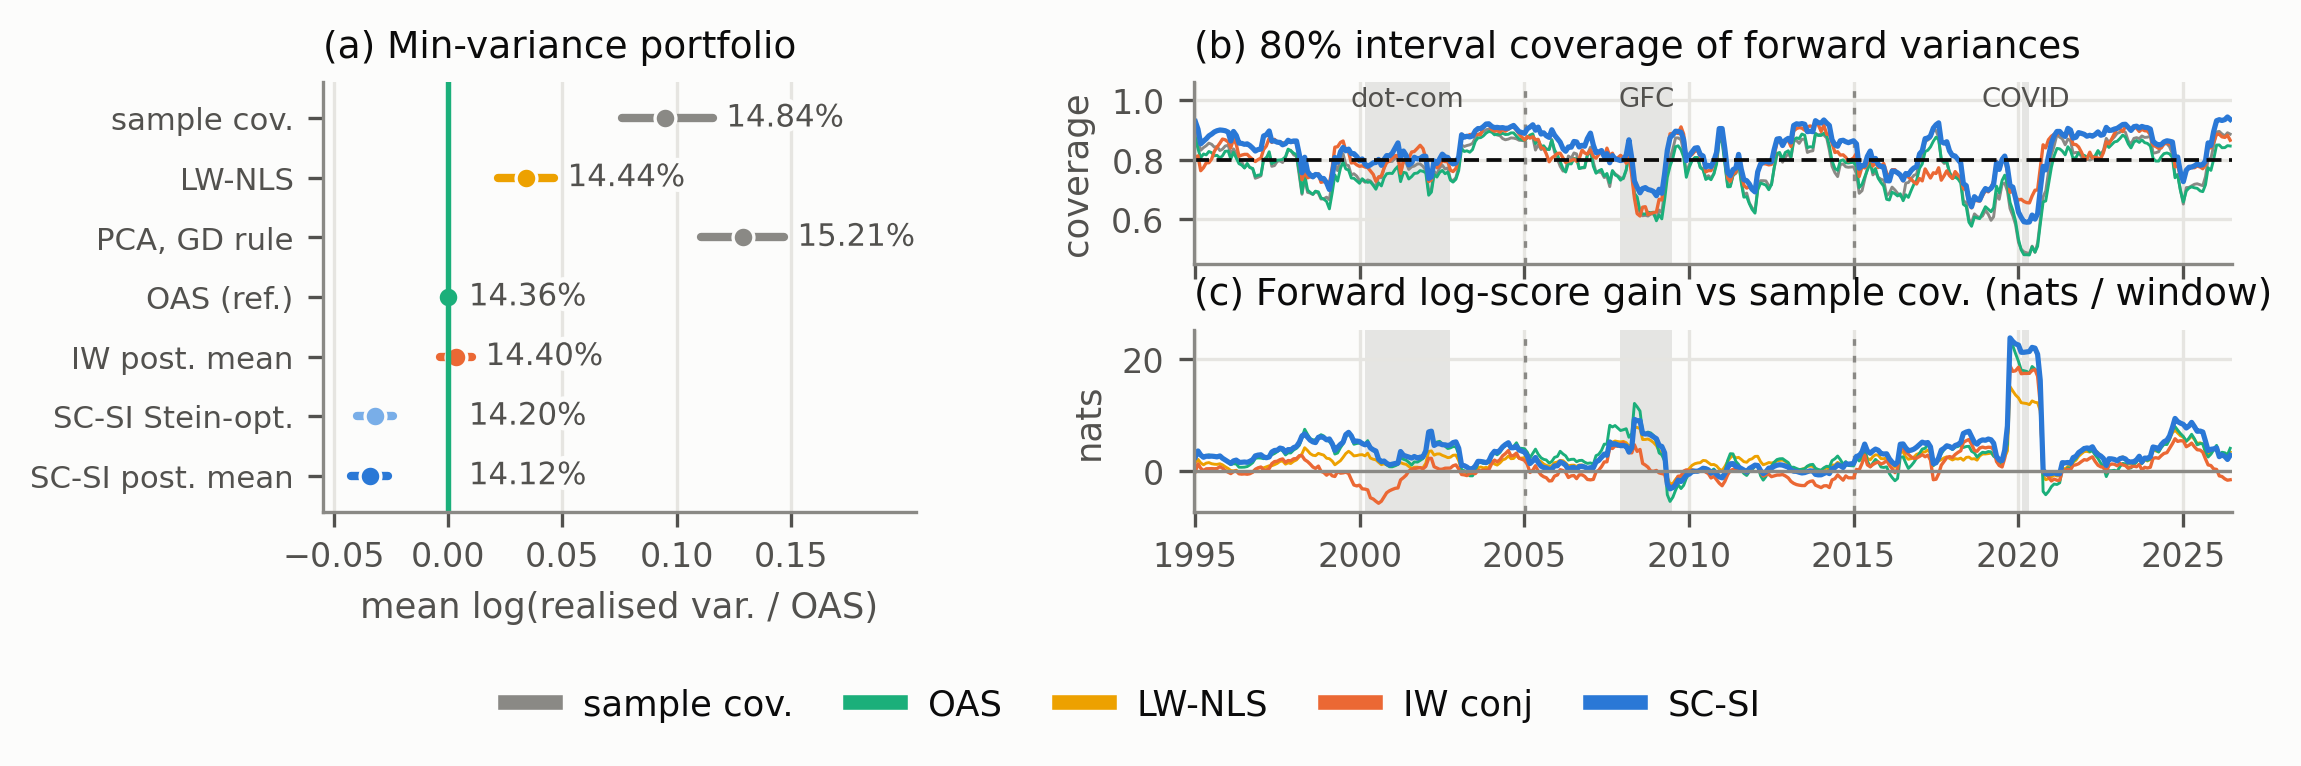
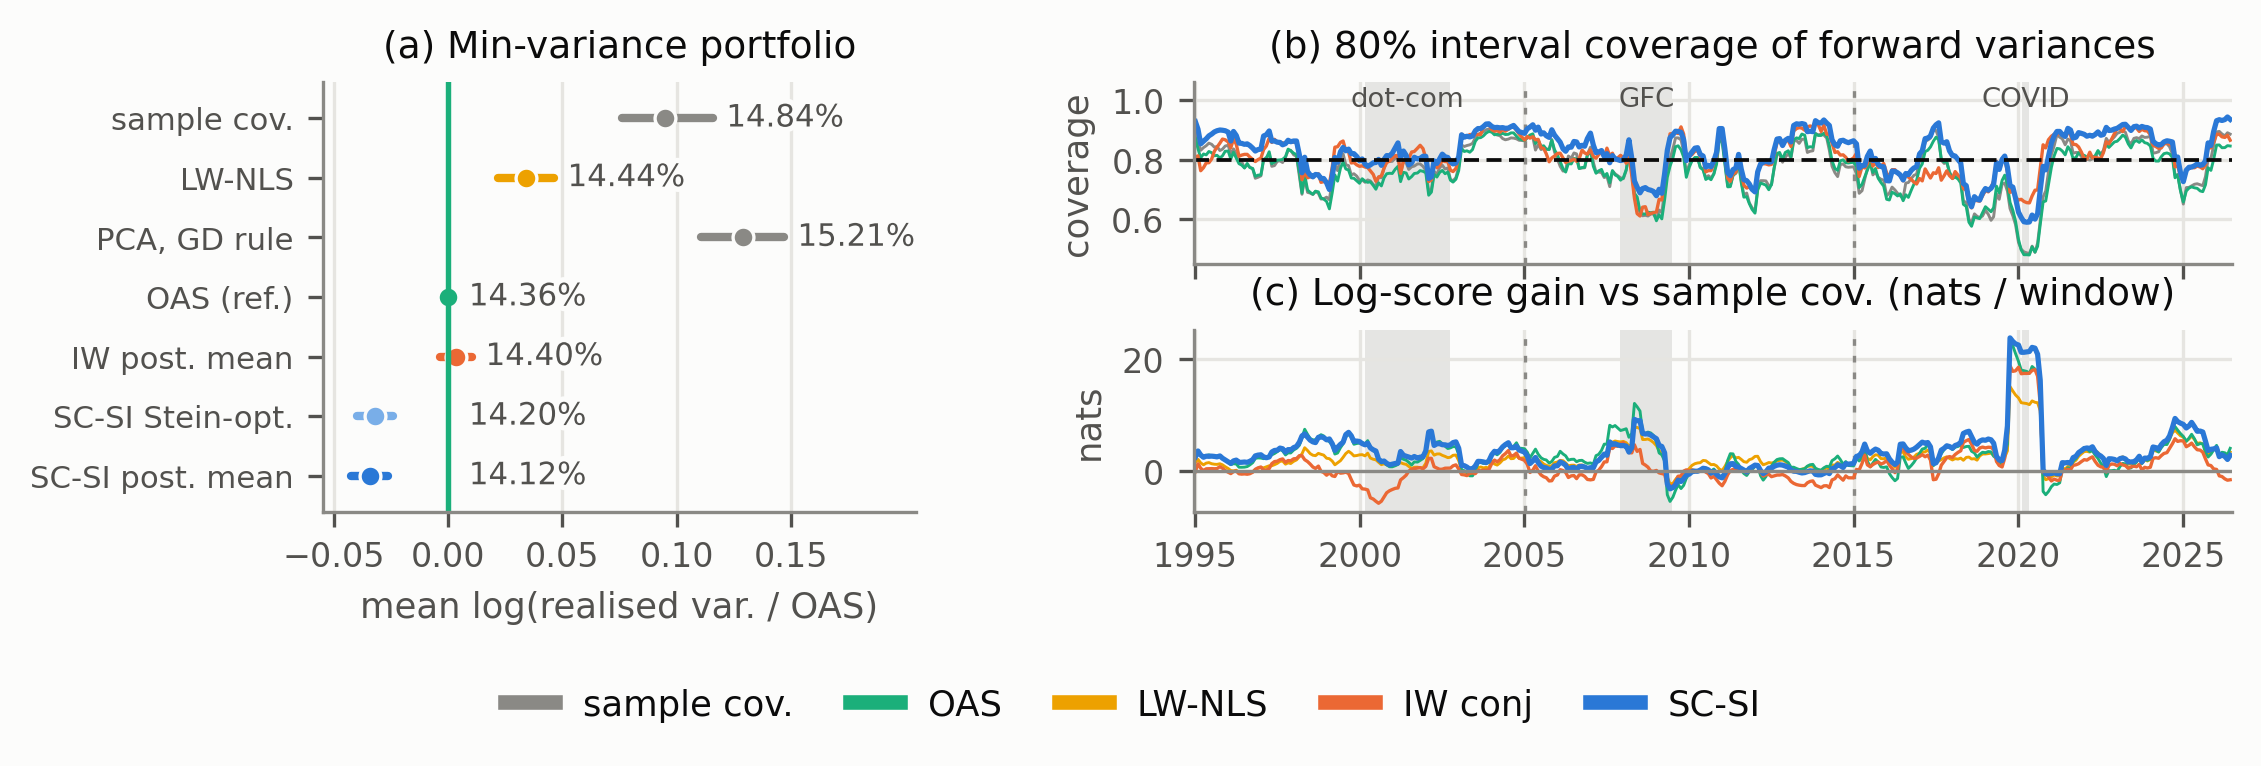
Finance figure: panel titles centred over their axes; title (c) shortened to fit
(b) and (c) were left-aligned at the axis edge, so (c) almost touched the border; (a) is centred as well so the
three titles are consistent. 'Forward' dropped from title (c); the caption still says it.

diff --git a/experiments/paper_figs.py b/experiments/paper_figs.py
@@ -165,7 +165,7 @@ def fig_finance():
             a0.text(max(res["mv"][n]["log_var_ratio_vs_OAS"][2] + 0.006, 0.009), y, f"{res['mv'][n]['ann_vol']:.2f}%", ha="left", va="center", fontsize=7.4, color=INK2, path_effects=halo)
         a0.set_xlim(-0.055, 0.205); a0.set_ylim(-0.6, len(order) - 0.4); a0.set_xticks([-0.05, 0, 0.05, 0.10, 0.15])
         a0.set_yticks(ys); a0.set_yticklabels([label[n] for n in order], fontsize=7.4); a0.grid(axis="y", visible=False)
-        a0.set_xlabel("mean log(realised var. / OAS)"); a0.set_title("(a) Min-variance portfolio", loc="left")
+        a0.set_xlabel("mean log(realised var. / OAS)"); a0.set_title("(a) Min-variance portfolio", loc="center")
         for a in (a1, a2):
             for _, d0, d1 in crises:
                 a.axvspan(np.datetime64(d0), np.datetime64(d1), color="#dcdcda", alpha=0.7, lw=0, zorder=0)
@@ -176,10 +176,10 @@ def fig_finance():
         a1.axhline(0.8, color=INK, lw=0.9, ls=(0, (4, 2))); a1.set_ylim(0.45, 1.06); a1.set_yticks([0.6, 0.8, 1.0]); a1.set_ylabel("coverage")
         for lab, d0, d1 in crises:
             a1.text(np.datetime64(d0) + (np.datetime64(d1) - np.datetime64(d0)) // 2, 1.045, lab, ha="center", va="top", fontsize=6.6, color=INK2)
-        a1.set_title("(b) 80% interval coverage of forward variances", loc="left"); plt.setp(a1.get_xticklabels(), visible=False)
+        a1.set_title("(b) 80% interval coverage of forward variances", loc="center"); plt.setp(a1.get_xticklabels(), visible=False)
         for n, c, lw in (("LW_nonlinear_shrinkage", YELLOW, 0.7), ("OAS_shrinkage", AQUA, 0.7), ("IW", ORANGE, 0.8), ("SC-SI", BLUE, 1.25)):
             a2.plot(t, gain[n], color=c, lw=lw)
-        a2.axhline(0, color=GRAY, lw=0.8); a2.set_ylabel("nats"); a2.set_title("(c) Forward log-score gain vs sample cov. (nats / window)", loc="left")
+        a2.axhline(0, color=GRAY, lw=0.8); a2.set_ylabel("nats"); a2.set_title("(c) Log-score gain vs sample cov. (nats / window)", loc="center")
         a2.set_xlim(t[0] - np.timedelta64(20, "D"), t[-1] + np.timedelta64(20, "D")); a2.xaxis.set_major_locator(mdates.YearLocator(5)); a2.xaxis.set_major_formatter(mdates.DateFormatter("%Y"))
         h = [plt.Line2D([], [], color=c, lw=3.5) for c in (GRAY, AQUA, YELLOW, ORANGE, BLUE)]
         fig.legend(h, ["sample cov.", "OAS", "LW-NLS", "IW conj", "SC-SI"], loc="lower center", ncol=5, bbox_to_anchor=(0.5, 0.0), columnspacing=1.6, handlelength=1.4)
